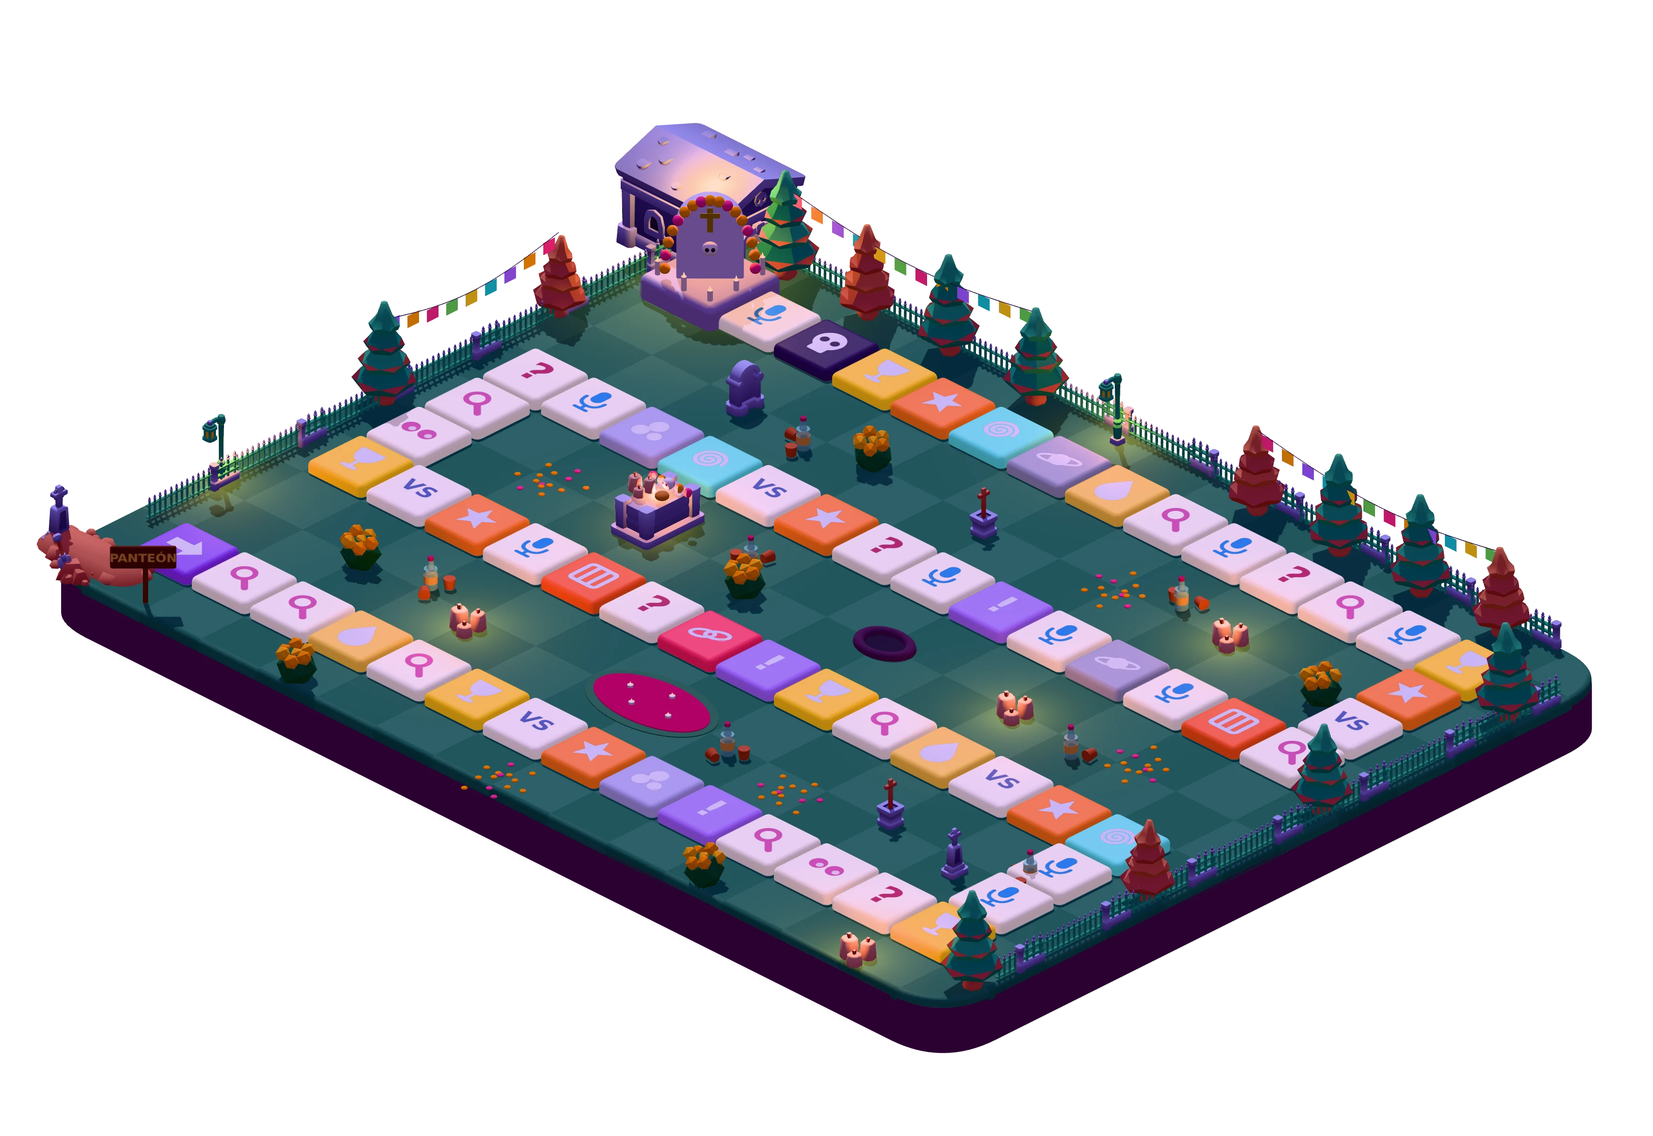
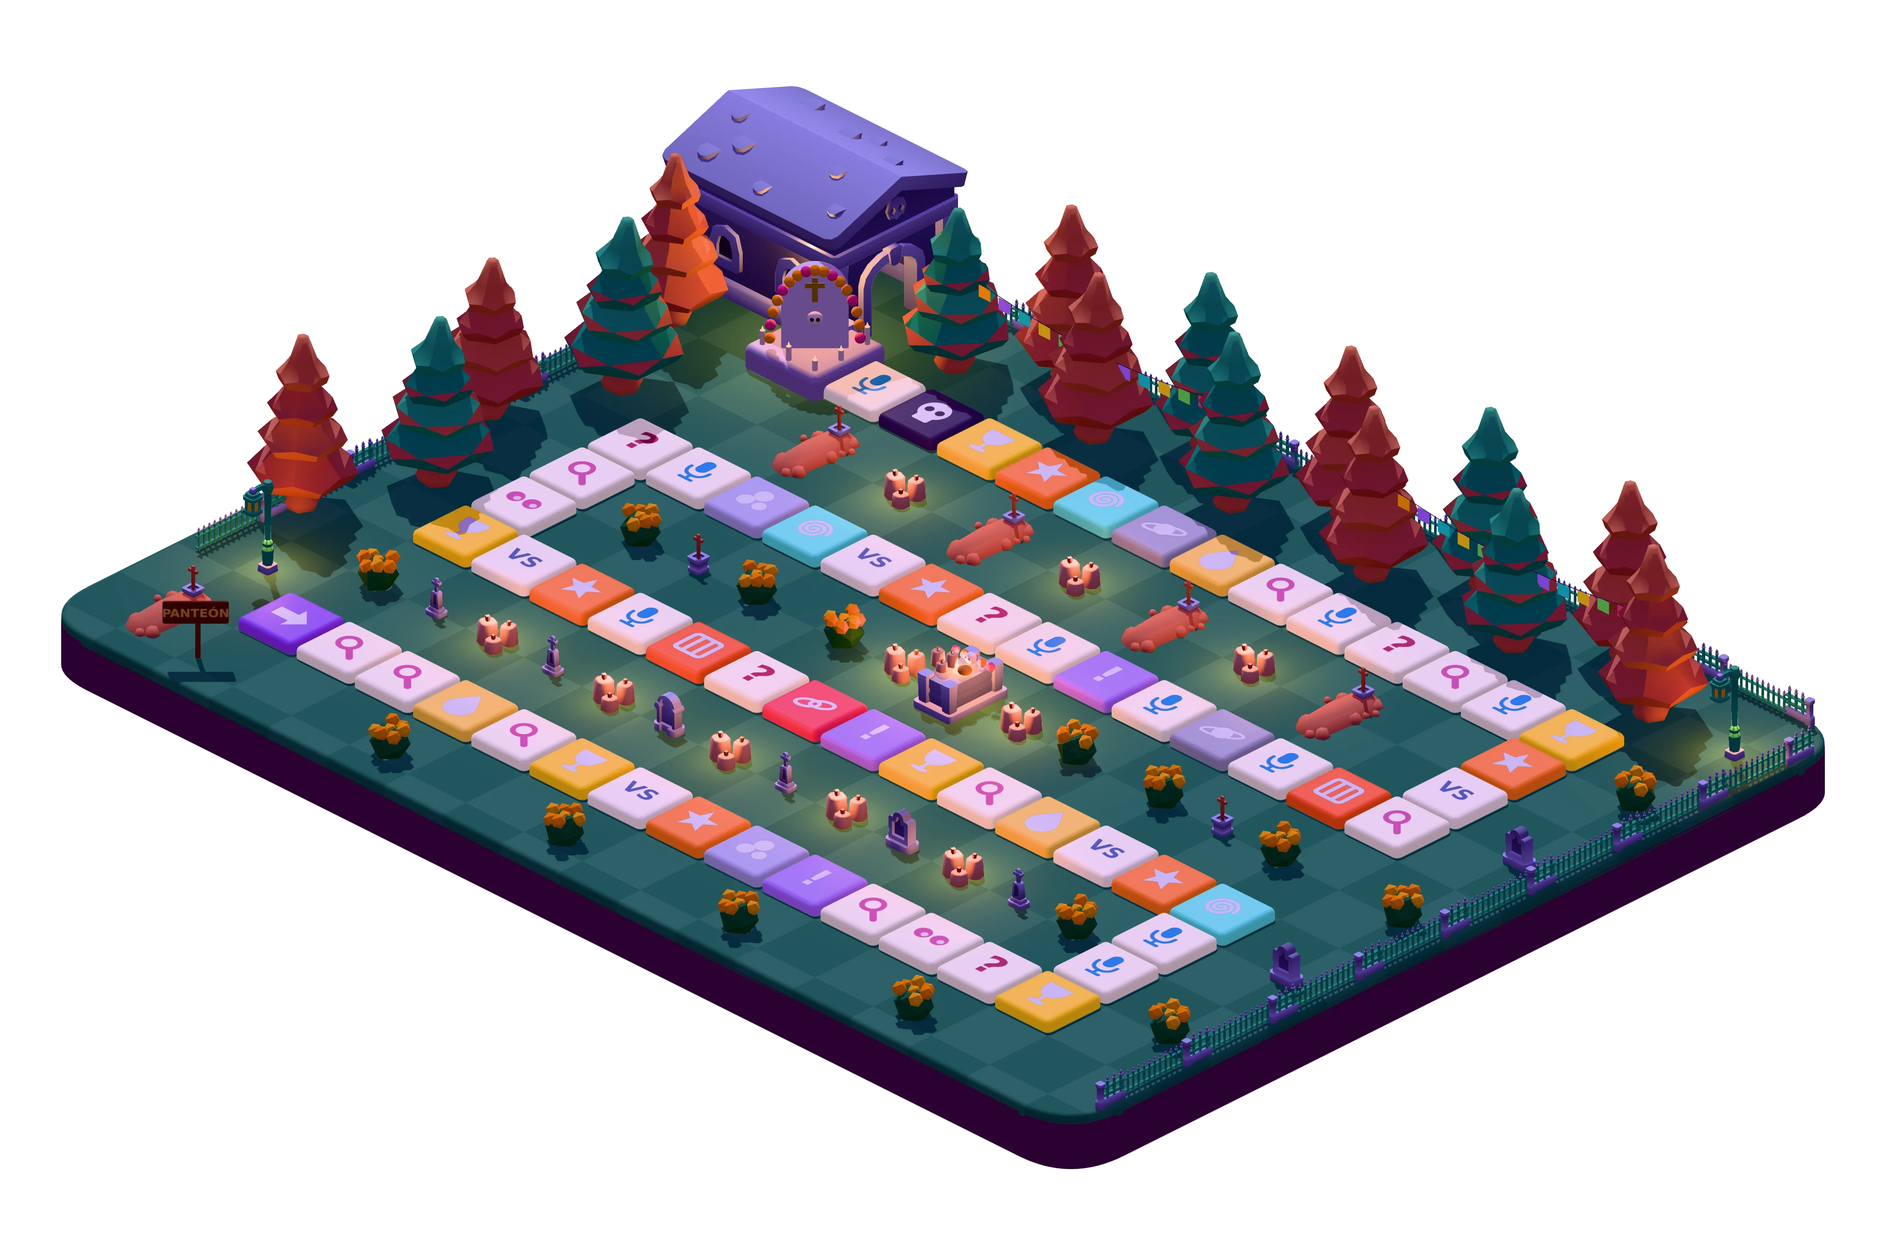
Board layout pass with level-design rules (new diseno-tablero skill)
- New project skill .claude/skills/diseno-tablero with the board's
  level-design rules: visual hierarchy, zones, grid alignment, rhythm,
  symmetry, scale table and a review checklist.
- decor.ts rewritten by zone: themed, aligned compositions in each strip
  (row of tombstones with candles, symmetric ofrenda, row of fresh graves),
  a two-row forest frame at the back and left, low props only on the
  right and front. decor.test.ts enforces: nothing on the path, no
  overlaps, everything inside the island, tall props only in the frame.
- Bigger island margin; trees at real tree size (2.2-2.6 tiles); iron
  fence on the island edge; removed the unreadable ground circles
  (pond, pit, petals) and scattered bottles.

Claude-Session: https://claude.ai/code/session_01EHHKZnjyesYxRjuSqf66QR

diff --git a/scripts/board3d/scene.ts b/scripts/board3d/scene.ts
@@ -328,11 +328,10 @@ function mausoleum() {
   return g;
 }
 
-/** Tumba abierta junto a la salida: de aquí salieron los muertos a medianoche. */
+/** Tumba de tierra recién cavada con su cruz de madera en la cabecera (mirando a la cámara). */
 function grave() {
-  const g = kenney("grave", 0.12, Math.PI / 2);
-  g.add(kenney("gravestone-cross", 0.6, Math.PI / 2).translateX(-0.45));
-  g.add(kenney("shovel-dirt", 0.45, 0.6).translateX(0.1).translateZ(0.35));
+  const g = kenney("grave", 0.12);
+  g.add(kenney("cross-wood", 0.5).translateZ(-0.42));
   return g;
 }
 
@@ -346,49 +345,6 @@ function marigold(v: number) {
     const r = k === 0 ? 0 : 0.11;
     g.add(mesh(new THREE.IcosahedronGeometry(0.06, 0), mat(k % 3 ? C.marigold : "#ffb627", { roughness: 0.9, flatShading: true }), Math.cos(a) * r, 0.2 + (k % 2) * 0.03, Math.sin(a) * r));
   }
-  return g;
-}
-
-/** Pétalos de cempasúchil por el suelo (el camino que guía a los muertos). */
-function petals(v: number) {
-  const g = new THREE.Group();
-  for (let k = 0; k < 14; k++) {
-    const a = k * 2.4 + v * 7;
-    const r = 0.05 + ((k * 37) % 10) / 40;
-    const p = sphere(0.025, mat(k % 4 ? C.marigold : "#ff4f8b", { roughness: 0.9 }), Math.cos(a) * r, 0.01, Math.sin(a) * r, 8);
-    p.scale.y = 0.35;
-    g.add(p);
-  }
-  return g;
-}
-
-/** Fosa recién cavada (decoración). */
-function fosa() {
-  const g = new THREE.Group();
-  const rim = mesh(new THREE.TorusGeometry(0.36, 0.08, 10, 32), mat("#5a3a52", { roughness: 1 }), 0, 0.01, 0);
-  rim.rotation.x = Math.PI / 2;
-  rim.scale.y = 0.75;
-  g.add(rim);
-  const hole = mesh(new THREE.CircleGeometry(0.36, 32), mat("#1e1028"), 0, 0.012, 0);
-  hole.rotation.x = -Math.PI / 2;
-  hole.scale.y = 0.75;
-  g.add(hole);
-  return g;
-}
-
-function pond() {
-  const g = new THREE.Group();
-  const rim = mesh(new THREE.CylinderGeometry(0.98, 0.98, 0.02, 48), mat("#3f7a52"), 0, 0.001, 0);
-  rim.scale.z = 0.62;
-  g.add(rim);
-  const lake = mesh(new THREE.CylinderGeometry(0.88, 0.88, 0.03, 48), mat(C.calimocho, { roughness: 0.1, metalness: 0.1, emissive: "#5a0a2b", emissiveIntensity: 0.6 }), 0, 0.01, 0);
-  lake.scale.z = 0.55;
-  g.add(lake);
-  // velitas flotando en el lago
-  [[0.4, 0.12], [-0.45, -0.08], [0.1, -0.25], [-0.15, 0.2]].forEach(([x, z]) => {
-    g.add(cyl(0.04, 0.04, 0.03, mat("#fff4e0"), x, 0.03, z, 12));
-    g.add(mesh(new THREE.ConeGeometry(0.015, 0.05, 8), glow("#ffb347", 3), x, 0.085, z));
-  });
   return g;
 }
 
@@ -412,22 +368,6 @@ function sign() {
   const board = mesh(new RoundedBoxGeometry(0.62, 0.24, 0.04, 2, 0.02), [wood, wood, wood, wood, mat("#ffffff", { map: tex }), wood] as unknown as THREE.Material, 0, 0.5, 0.03);
   board.rotation.y = Math.PI / 4; // de cara a la cámara
   g.add(board);
-  return g;
-}
-
-/** Botella de mezcal y jarritos de barro tirados por el panteón (la fiesta de los muertos). */
-function mezcal(v: number) {
-  const g = new THREE.Group();
-  const glass = mat("#9be7c4", { roughness: 0.1, transparent: true, opacity: 0.75 });
-  g.add(cyl(0.05, 0.05, 0.16, glass), cyl(0.02, 0.03, 0.07, glass, 0, 0.16, 0, 10), cyl(0.022, 0.022, 0.025, mat("#c2185b"), 0, 0.23, 0, 10));
-  const label = cyl(0.052, 0.052, 0.06, mat("#ffcf6b"), 0, 0.05, 0, 16);
-  g.add(label);
-  const clay = mat("#c8663b", { roughness: 0.8 });
-  const jar = cyl(0.045, 0.035, 0.08, clay, 0.12, 0, 0.06, 14);
-  g.add(jar);
-  const fallen = mesh(new THREE.CylinderGeometry(0.045, 0.035, 0.08, 14), clay, -0.1, 0.04, 0.1);
-  fallen.rotation.set(Math.PI / 2, 0, v * 3);
-  g.add(fallen);
   return g;
 }
 
@@ -456,31 +396,31 @@ function papelPicado(a: THREE.Vector3, b: THREE.Vector3, n = 12) {
   return g;
 }
 
-/** Las cosas bajitas, más grandes para que se lean desde el sofá. */
-const PROP_SCALE: Partial<Record<Deco["kind"], number>> = { marigold: 1.6, petals: 1.8, sign: 1.3, mausoleum: 1.25, grave: 1.3, ofrenda: 1.5 };
-
+/** Altura de cada objeto en casillas (tabla de escala de la skill diseno-tablero). */
 function decoration(d: Deco) {
   const v = vary(d.gx, d.gy);
   const builders: Record<Deco["kind"], () => THREE.Object3D> = {
-    cypress: () => kenney(v > 0.5 ? "pine" : "pine-crooked", 1.15 + v * 0.35),
-    jacaranda: () => kenney(v > 0.5 ? "pine-fall" : "pine-fall-crooked", 1.05 + v * 0.3),
-    deadtree: () => kenney("lightpost-single", 0.95),
+    pine: () => kenney(v > 0.5 ? "pine" : "pine-crooked", 2.2 + v * 0.4),
+    pineFall: () => kenney(v > 0.5 ? "pine-fall" : "pine-fall-crooked", 2.1 + v * 0.4),
+    lantern: () => kenney("lightpost-single", 1.25),
+    crypt: () => mausoleum(),
+    tombstone: () => kenney((["gravestone-round", "gravestone-cross", "gravestone-decorative", "gravestone-bevel"] as const)[Math.floor(v * 4)], 0.5),
+    cross: () => kenney("cross-wood", 0.5),
+    candles: () => kenney("candle-multiple", 0.36),
     marigold: () => marigold(v),
-    candles: () => kenney("candle-multiple", 0.32),
-    tombstone: () => kenney((["gravestone-round", "gravestone-cross", "gravestone-decorative", "gravestone-bevel", "gravestone-broken"] as const)[Math.floor(v * 5)], 0.62, v > 0.5 ? 0 : Math.PI / 2),
-    cross: () => kenney("cross-wood", 0.62, Math.PI / 2),
-    petals: () => petals(v),
     ofrenda: () => ofrenda(v),
-    mausoleum: () => mausoleum(),
     grave: () => grave(),
-    pond: () => pond(),
-    fosa: () => fosa(),
     sign: () => sign(),
   };
   const o = builders[d.kind]();
   o.position.set(d.gx, 0, d.gy);
-  o.scale.multiplyScalar(PROP_SCALE[d.kind] ?? 1);
-  if (["cypress", "jacaranda", "marigold"].includes(d.kind)) o.rotation.y += v * Math.PI * 2;
+  o.rotation.y += d.turn ?? 0;
+  // solo la vegetación lleva una variación mínima de giro (regla: alineado a la cuadrícula)
+  if (d.kind === "pine" || d.kind === "pineFall" || d.kind === "marigold") o.rotation.y += (v - 0.5) * 0.35;
+  if (d.kind === "crypt") o.scale.multiplyScalar(2);
+  if (d.kind === "marigold") o.scale.multiplyScalar(1.6);
+  if (d.kind === "ofrenda") o.scale.multiplyScalar(1.5);
+  if (d.kind === "sign") o.scale.multiplyScalar(1.3);
   return shadowed(o);
 }
 
@@ -593,23 +533,17 @@ export async function renderBoard(scale: number) {
   const scene = new THREE.Scene();
   scene.add(island(), tiles(), goalTomb());
   for (const d of DECOR) scene.add(decoration(d));
-  // la fiesta de los muertos: botellas de mezcal y jarritos tirados, y papel picado entre los árboles del fondo
-  for (const [gx, gy] of [[2.6, 7.4], [8, 7.7], [5, 4.3], [11, 4.8], [3.4, 1.8], [9.4, 1.3], [12.8, 7.3]]) {
-    const c = shadowed(mezcal(vary(gx, gy, 2)));
-    c.position.set(gx, 0, gy);
-    c.rotation.y = vary(gx, gy, 3) * 6;
-    c.scale.setScalar(1.7);
-    scene.add(c);
-  }
-  scene.add(papelPicado(new THREE.Vector3(0.3, 1.25, -1), new THREE.Vector3(4.6, 1.25, -1)));
-  scene.add(papelPicado(new THREE.Vector3(8.4, 1.15, -1), new THREE.Vector3(12.6, 1.15, -1)));
-  scene.add(papelPicado(new THREE.Vector3(-1, 1.15, 1.6), new THREE.Vector3(-1, 1.15, 4.6), 9));
-  // rejas de hierro por el fondo y los lados (delante no: taparían las casillas)
-  scene.add(shadowed(ironFence(I0 + 1, I0 + 0.2, IX - 1, I0 + 0.2)));
-  scene.add(shadowed(ironFence(I0 + 0.2, I0 + 1, I0 + 0.2, IY - 1.6)));
-  scene.add(shadowed(ironFence(IX - 0.2, I0 + 1, IX - 0.2, IY - 1)));
-  // luz cálida de las velas sobre el panteón
-  for (const d of DECOR.filter((x) => x.kind === "candles" || x.kind === "ofrenda" || x.kind === "deadtree")) {
+  // papel picado colgado entre los árboles de la primera fila del fondo
+  scene.add(papelPicado(new THREE.Vector3(1.2, 1.4, -1.2), new THREE.Vector3(6, 1.4, -1.2), 14));
+  scene.add(papelPicado(new THREE.Vector3(8.4, 1.4, -1.2), new THREE.Vector3(13.2, 1.4, -1.2), 14));
+  // reja de hierro al borde de la isla: fondo y lados (delante no: taparía las casillas; a la izquierda
+  // deja la entrada junto a la salida)
+  const { y0: J0 } = ISLAND;
+  scene.add(shadowed(ironFence(I0 + 0.6, J0 + 0.25, IX - 0.6, J0 + 0.25)));
+  scene.add(shadowed(ironFence(I0 + 0.25, J0 + 0.6, I0 + 0.25, IY - 2.4)));
+  scene.add(shadowed(ironFence(IX - 0.25, J0 + 0.6, IX - 0.25, IY - 0.6)));
+  // luz cálida de velas, ofrenda y faroles
+  for (const d of DECOR.filter((x) => x.kind === "candles" || x.kind === "ofrenda" || x.kind === "lantern")) {
     const l = new THREE.PointLight("#ffa040", 2.2, 2.6, 1.6);
     l.position.set(d.gx, 0.5, d.gy);
     scene.add(l);

diff --git a/src/game/decor.ts b/src/game/decor.ts
@@ -1,42 +1,66 @@
-// Decoración del tablero isométrico (en coordenadas de cuadrícula, ver isoPath.ts).
-// La comparten el render 3D del tablero (scripts/board3d) y la TV.
+// Decoración del tablero isométrico (coordenadas de cuadrícula, ver isoPath.ts). La comparten el render 3D
+// (scripts/board3d) y la TV. Sigue las reglas de .claude/skills/diseno-tablero: zonas, cuadrícula, ritmo y
+// simetría; nada encima del camino ni fuera de la isla (lo comprueba decor.test.ts).
+//
+// Recorrido: tramos en gy = 9, 6, 3, 0 (gx 0–13); conectores en (13, 8–7), (0, 5–4) y (13, 2–1).
 
 export type DecoKind =
-  | "cypress" | "jacaranda" | "deadtree" | "marigold" | "candles" | "tombstone" | "cross" | "petals" | "ofrenda" | "mausoleum" | "grave"
-  | "pond" | "fosa" | "sign";
-export type Deco = { gx: number; gy: number; kind: DecoKind };
+  | "pine" // pino verde (alto: solo en el marco)
+  | "pineFall" // pino de otoño, naranja (alto: solo en el marco)
+  | "lantern" // farol (alto: solo en el marco)
+  | "crypt" // cripta grande (detrás de la meta)
+  | "tombstone"
+  | "cross"
+  | "candles"
+  | "marigold" // mata de cempasúchil
+  | "ofrenda"
+  | "grave" // tumba de tierra con cruz
+  | "sign"; // letrero "PANTEÓN" en la salida
 
-// Panteón de Día de Muertos. Entre los tramos solo cosas bajitas (lo alto taparía las casillas de detrás);
-// cipreses, árboles y el mausoleo, en el borde.
+export type Deco = { gx: number; gy: number; kind: DecoKind; turn?: number };
+
+/** Objetos altos: solo pueden ir en el marco (detrás o a la izquierda), donde no tapan casillas. */
+export const TALL: DecoKind[] = ["pine", "pineFall", "lantern", "crypt"];
+
+const row = (kind: DecoKind | DecoKind[], gy: number, xs: number[], turn?: number): Deco[] =>
+  xs.map((gx, i) => ({ gx, gy, kind: Array.isArray(kind) ? kind[i % kind.length] : kind, turn }));
+
 export const DECOR: Deco[] = [
-  { gx: -0.8, gy: 9.8, kind: "grave" },
-  { gx: 0.4, gy: 10.1, kind: "sign" },
-  // entre el primer y el segundo tramo
-  { gx: 1.6, gy: 7.6, kind: "marigold" },
-  { gx: 3.6, gy: 7.8, kind: "candles" },
-  { gx: 6.5, gy: 7.5, kind: "pond" },
-  { gx: 9.2, gy: 7.9, kind: "petals" },
-  { gx: 10.6, gy: 7.5, kind: "cross" },
-  { gx: 12, gy: 7.8, kind: "tombstone" },
-  // entre el segundo y el tercero
-  { gx: 1.8, gy: 4.6, kind: "petals" },
-  { gx: 3.5, gy: 4.4, kind: "ofrenda" },
-  { gx: 5.4, gy: 4.8, kind: "marigold" },
-  { gx: 7.5, gy: 4.5, kind: "fosa" },
-  { gx: 9.8, gy: 4.6, kind: "candles" },
-  { gx: 11.8, gy: 4.4, kind: "petals" },
-  // entre el tercero y el cuarto
-  { gx: 2.2, gy: 1.6, kind: "tombstone" },
-  { gx: 4.3, gy: 1.5, kind: "marigold" },
-  { gx: 6.4, gy: 1.7, kind: "cross" },
-  { gx: 8.6, gy: 1.6, kind: "petals" },
-  { gx: 10.4, gy: 1.5, kind: "candles" },
-  { gx: 12.2, gy: 1.7, kind: "marigold" },
-  // bosque alrededor (detrás y a los lados)
-  ...[0.3, 1.7, 4.6, 6, 8.4, 9.8, 11.2, 12.6].map((gx, i): Deco => ({ gx, gy: -1, kind: (["cypress", "jacaranda", "cypress", "deadtree", "jacaranda", "cypress", "cypress", "jacaranda"] as const)[i] })),
-  { gx: 3, gy: -1.1, kind: "cypress" },
-  { gx: -0.85, gy: -0.85, kind: "mausoleum" },
-  ...[1.6, 4.6, 7.4].map((gy, i): Deco => ({ gx: -1, gy, kind: (["jacaranda", "cypress", "deadtree"] as const)[i] })),
-  ...[0.4, 3.6, 6.6, 9.6].map((gy, i): Deco => ({ gx: 14.1, gy, kind: (["cypress", "cypress", "jacaranda", "cypress"] as const)[i] })),
-  ...[3, 6.5, 10, 12.6].map((gx, i): Deco => ({ gx, gy: 10.1, kind: (["marigold", "petals", "marigold", "candles"] as const)[i] })),
+  // --- Franja 1 (entre los tramos 9 y 6): hilera de tumbas con velas entre ellas -------------------
+  ...row("tombstone", 7.5, [1, 3, 5, 7, 9, 11]),
+  ...row("candles", 7.5, [2, 4, 6, 8, 10]),
+  ...row("marigold", 7.5, [0, 12]),
+
+  // --- Franja 2 (entre 6 y 3): la ofrenda en el centro, simétrica ---------------------------------
+  { gx: 7, gy: 4.5, kind: "ofrenda" },
+  ...row("candles", 4.5, [6, 8]),
+  ...row("marigold", 4.5, [5, 9]),
+  ...row("cross", 4.5, [2.5, 11.5]),
+  ...row("marigold", 4.5, [1.5, 3.5, 10.5, 12.5]),
+
+  // --- Franja 3 (entre 3 y 0): tumbas de tierra recién cavadas, en fila ---------------------------
+  ...row("grave", 1.5, [1.5, 4.5, 7.5, 10.5]),
+  ...row("candles", 1.5, [3, 6, 9]),
+
+  // --- Marco de atrás: bosque en dos filas al tresbolillo, la cripta detrás de la meta ------------
+  { gx: -1.4, gy: -1.4, kind: "crypt" },
+  ...row(["pine", "pineFall"], -1.2, [1.2, 3.6, 6, 8.4, 10.8, 13.2]),
+  ...row(["pineFall", "pine"], -2, [2.4, 4.8, 7.2, 9.6, 12]),
+
+  // --- Marco izquierdo: bosque (lo alto aquí no tapa casillas) ------------------------------------
+  // dos filas al tresbolillo, como el fondo
+  ...[0.4, 2, 3.6, 5.2, 6.8].map((gy, i): Deco => ({ gx: i % 2 ? -1.3 : -2, gy, kind: i % 2 ? "pine" : "pineFall" })),
+
+  // --- Faroles en las esquinas del marco ------------------------------------------------------------
+  { gx: -1.2, gy: 8.2, kind: "lantern" },
+  { gx: 14.6, gy: -1.2, kind: "lantern" },
+
+  // --- Marco derecho y de delante: solo cosas bajas (lo alto taparía casillas) ----------------------
+  ...row("marigold", 0.5, [14.6]),
+  ...[2.5, 4.5, 6.5, 8.5].map((gy, i): Deco => ({ gx: 14.6, gy, kind: i % 2 ? "marigold" : "tombstone" })),
+  ...row("marigold", 10.3, [3, 6, 9, 12]),
+
+  // --- Salida: la tumba abierta de donde salieron los muertos, y el letrero -------------------------
+  { gx: -1.3, gy: 9.8, kind: "grave" },
+  { gx: -0.3, gy: 10.3, kind: "sign" },
 ];

diff --git a/src/game/decor.test.ts b/src/game/decor.test.ts
@@ -1,0 +1,36 @@
+import { describe, expect, it } from "vitest";
+import { BOARD } from "./board";
+import { DECOR, TALL } from "./decor";
+import { ISLAND, isoPos } from "./isoPath";
+
+// Reglas de .claude/skills/diseno-tablero: el tablero se ve ordenado y nada tapa el juego.
+const path = BOARD.map((t) => isoPos(t.n));
+
+describe("decoración del tablero", () => {
+  it("nada encima del camino", () => {
+    for (const d of DECOR) {
+      const hit = path.find((p) => Math.abs(p.gx - d.gx) < 0.75 && Math.abs(p.gy - d.gy) < 0.75);
+      expect(hit, `${d.kind} en (${d.gx}, ${d.gy}) pisa la casilla (${hit?.gx}, ${hit?.gy})`).toBeUndefined();
+    }
+  });
+
+  it("nada se solapa (un objeto por celda)", () => {
+    for (const [i, a] of DECOR.entries())
+      for (const b of DECOR.slice(i + 1))
+        expect(Math.hypot(a.gx - b.gx, a.gy - b.gy), `${a.kind} (${a.gx}, ${a.gy}) y ${b.kind} (${b.gx}, ${b.gy})`).toBeGreaterThanOrEqual(0.9);
+  });
+
+  it("todo cabe dentro de la isla", () => {
+    for (const d of DECOR) {
+      expect(d.gx, `${d.kind} (${d.gx}, ${d.gy})`).toBeGreaterThanOrEqual(ISLAND.x0 + 0.4);
+      expect(d.gx).toBeLessThanOrEqual(ISLAND.x1 - 0.4);
+      expect(d.gy, `${d.kind} (${d.gx}, ${d.gy})`).toBeGreaterThanOrEqual(ISLAND.y0 + 0.4);
+      expect(d.gy).toBeLessThanOrEqual(ISLAND.y1 - 0.4);
+    }
+  });
+
+  it("lo alto solo va en el marco de atrás o de la izquierda, donde no tapa casillas", () => {
+    for (const d of DECOR.filter((x) => TALL.includes(x.kind)))
+      expect(d.gy < -0.5 || d.gx < -0.5, `${d.kind} alto en (${d.gx}, ${d.gy})`).toBe(true);
+  });
+});

diff --git a/src/game/isoPath.ts b/src/game/isoPath.ts
@@ -43,8 +43,8 @@ export function isPathCell(gx: number, gy: number): boolean {
 /** Píxeles (SVG) en pantalla de un punto del suelo. */
 export const isoSx = (gx: number, gy: number) => (gx - gy) * 50;
 export const isoSy = (gx: number, gy: number) => (gx + gy) * 25;
-/** La isla sobresale un poco del recorrido. */
-export const ISLAND = { x0: -1.3, x1: ISO_COLS + 0.3, y0: -1.3, y1: ISO_ROWS + 0.3, thickness: 46 };
+/** La isla deja margen alrededor del recorrido para el marco (bosque, reja, cripta). */
+export const ISLAND = { x0: -2.5, x1: ISO_COLS + 1.3, y0: -2.5, y1: ISO_ROWS + 0.9, thickness: 46 };
 /** Rectángulo visible (píxeles SVG): la isla, la meta de arriba y la sombra de abajo. */
 export const ISO_VIEW = {
   x: isoSx(ISLAND.x0, ISLAND.y1) - 30,

diff --git a/.claude/skills/diseno-tablero/SKILL.md b/.claude/skills/diseno-tablero/SKILL.md
@@ -1,0 +1,61 @@
+---
+name: diseno-tablero
+description: Reglas de diseño de nivel y dirección de arte del tablero 3D de Muertos de Sed. Úsala SIEMPRE antes de tocar la decoración, el tablero, las fichas o el render (src/game/decor.ts, scripts/board3d/scene.ts).
+---
+
+# Diseño del tablero de Muertos de Sed
+
+El tablero es una "pieza de juego de mesa" vista en isométrico en una TV, a 3 metros. Todo lo que se
+coloca tiene que leerse a esa distancia, no tapar el juego y verse **puesto a propósito**, nunca al azar.
+
+## 1. Jerarquía visual (en este orden)
+1. **El camino de 62 casillas**: siempre visible entero. Nada lo tapa, nada lo pisa.
+2. **Las fichas** (calaveritas): son lo más llamativo que se mueve.
+3. **La meta** (Tu Tumba, casilla 62) y **la salida** (Medianoche, casilla 1): los dos hitos.
+4. **El marco**: el bosque y la reja que encierran el panteón.
+5. **El relleno**: tumbas, velas, ofrenda… dan ambiente pero no compiten.
+
+## 2. Zonas (no se coloca nada fuera de su zona)
+El recorrido son 4 tramos horizontales (gy = 9, 6, 3, 0) de 14 casillas (gx 0–13) unidos por conectores.
+- **Camino**: las casillas. Prohibido poner objetos encima.
+- **Franjas interiores** (gy 7–8, 4–5, 1–2): entre tramos. Solo objetos **bajos** (alto ≤ 0,55 casillas),
+  porque lo alto tapa las casillas del tramo de detrás. Cada franja tiene **un tema** y una composición
+  ordenada (ver §3).
+- **Margen de atrás y laterales** (fuera del camino, dentro de la isla): el **marco**. Aquí van lo alto:
+  árboles grandes, cripta, faroles, reja de hierro.
+- **Margen de delante** (gy > 9.5): solo cosas muy bajas (arbustos, flores, reja baja). Nada alto: taparía el
+  primer tramo.
+- **Fuera de la isla**: nada. Todo objeto, con su copa y su sombra, cabe dentro del borde de la isla.
+
+## 3. Composición: orden, no azar
+- **Alineado a la cuadrícula**: los objetos se colocan en centros de celda (o mitades exactas), no en
+  coordenadas sueltas. Rotaciones solo de 0° o 90° (salvo variación mínima ≤ 10° en vegetación).
+- **Ritmo**: repeticiones a intervalo fijo (p. ej. una lápida cada 2 casillas, un árbol cada 1,5).
+- **Simetría por franja**: cada franja interior es una composición con centro (ofrenda, cripta, fuente) y
+  elementos que se repiten a los dos lados.
+- **Agrupar, no esparcir**: 3–5 objetos juntos forman un grupo legible; 20 objetos sueltos son ruido.
+- **Un solo objeto por celda**: `decor.ts` valida que no haya dos cosas en la misma celda ni encima del camino.
+- **Nada ambiguo**: si un objeto no se reconoce a 3 metros (círculos en el suelo, puntitos, manchas), se quita.
+
+## 4. Escala (referencia: 1 casilla = 1 unidad)
+| Objeto | Alto |
+|---|---|
+| Ficha (calaverita) | ~0,8 |
+| Lápida / cruz / velas | 0,35–0,55 |
+| Arbusto, cempasúchil | 0,3–0,4 |
+| Farol | 1,2 |
+| Árbol (pino) | **2–2,6** (un árbol es más alto que una persona, nunca como una ficha) |
+| Cripta | 1,4 |
+
+## 5. Estilo
+- Un solo estilo: **low poly del Graveyard Kit de Kenney** (CC0) + piezas propias hechas en el mismo low poly
+  (`flatShading`, pocas caras). Nada de esferas lisas sueltas.
+- Paleta: morado noche, naranja cempasúchil, rosa mexicano, hueso; acentos dorados. Luz de luna lila + velas.
+- Antes de dar por bueno un cambio: **renderizar** (`node scripts/board3d/render.mjs`), mirar la imagen entera
+  y una captura de la TV con zoom, y revisar esta lista: ¿se ve todo el camino?, ¿algo se sale de la isla?,
+  ¿algo se solapa?, ¿hay algo que no se entienda?, ¿los árboles parecen árboles?
+
+## 6. Fichas
+Base única (el zombi del kit de Kenney, con esqueleto y cabeza separada) para que todas tengan la misma
+silueta; cada jugador se distingue por **color de la ropa + accesorio en la cabeza** (y algo en la mano).
+Los accesorios se enganchan al hueso/nodo `head` del modelo.
